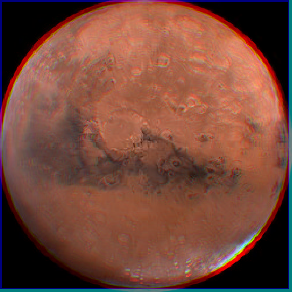
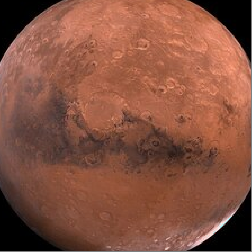
Se cambia la metodologia de aberracion v1

diff --git a/modules/telescope.py b/modules/telescope.py
@@ -9,7 +9,7 @@ def telescope_system(m, l, url):
     if m == '0':
         obj = Image.open(url, "r")
     elif m == '1':
-        obj = Image.open("img/nuevaImagen.png", "r")
+        obj = Image.open("img/mars.jpg", "r")
         
     width, height = obj.size
 
@@ -24,35 +24,55 @@ def telescope_system(m, l, url):
     
     res = dio/height
     
-    if l == 'd':
-        f1 = np.array(df.loc['objective','mainSystem']['f'])
-        f2 = np.array(df.loc['eyespace','mainSystem']['f'])
-        
-    elif l == 'g':
-        nA = np.array(df.loc['objective','mainSystem']['n'])
-        rA = np.array(df.loc['objective','mainSystem']['R'])
-        dA = np.array(df.loc['objective','mainSystem']['d'])
-        nB = np.array(df.loc['eyespace','mainSystem']['n'])
-        rB = np.array(df.loc['eyespace','mainSystem']['R'])
-        dB = np.array(df.loc['eyespace','mainSystem']['d'])
-        
-        f1 = 1/((nA-1)*((1/rA)-(1/(-rA))+(((nA-1)*dA)/(nA*rA*(-rA)))))
-        f2 = 1/((nB-1)*((1/(-rB))-(1/(rB))+(((nB-1)*dB)/(nB*rB*(-rB)))))
-    
-    si1 = (f1*so)/(so-f1)
-    so2 = -(si1-(f1+f2))
-    si2 = (f2*so2)/(so2-f2)
-    
-    print("si2: ", si2)
-    
     if m == '0':
+        if l == 'd':
+            f1 = np.array(df.loc['objective','mainSystem']['f'])
+            f2 = np.array(df.loc['eyespace','mainSystem']['f'])
+        
+        elif l == 'g':
+            nA = np.array(df.loc['objective','mainSystem']['n'])
+            rA = np.array(df.loc['objective','mainSystem']['R'])
+            dA = np.array(df.loc['objective','mainSystem']['d'])
+            nB = np.array(df.loc['eyespace','mainSystem']['n'])
+            rB = np.array(df.loc['eyespace','mainSystem']['R'])
+            dB = np.array(df.loc['eyespace','mainSystem']['d'])
+            
+            f1 = 1/((nA-1)*((1/rA)-(1/(-rA))+(((nA-1)*dA)/(nA*rA*(-rA)))))
+            f2 = 1/((nB-1)*((1/(-rB))-(1/(rB))+(((nB-1)*dB)/(nB*rB*(-rB)))))
+        
+        si1 = (f1*so)/(so-f1)
+        so2 = -(si1-(f1+f2))
+        si2 = (f2*so2)/(so2-f2)
+    
+        print("si2: ", si2)
+        
         si = si2
         width_output = int(width)+40
         height_output = int(height)+40
 
     elif m == '1':
+        so = [so, so, so]
+        f1 = np.array(df.loc['convergentLens','objetiveTriplet']['f'])
+        f2 = np.array(df.loc['divergentMeniscusLens','objetiveTriplet']['f'])
+        f3 = np.array(df.loc['concavePlaneLens','objetiveTriplet']['f'])
+        
+        fo = 1/(1/f1 + 1/f2 + 1/f3)
+        
+        f1 = np.array(df.loc['divergentLens','eyespaceTriplet']['f'])
+        f2 = np.array(df.loc['convergentMeniscusLens','eyespaceTriplet']['f'])
+        f3 = np.array(df.loc['convexPlaneLens','eyespaceTriplet']['f'])
+        
+        fe = 1/(1/f1 + 1/f2 + 1/f3)
+        
+        si1 = (fo*so)/(so-fo)
+        so2 = -(si1-(fo+fe))
+        si2 = (fe*so2)/(so2-fe)
     
-        d1 = df.loc['convergentLens','triplet']['d']
+        print("si2: ", si2)
+        
+        si = si2
+        
+        """d1 = df.loc['convergentLens','triplet']['d']
         d2 = df.loc['divergentLens','triplet']['d']
         d3 = df.loc['planarConvergentLens','triplet']['d']
 
@@ -82,7 +102,7 @@ def telescope_system(m, l, url):
 
         si = (f*so)/(so-f)
         print("so: ", so)
-        print("si: ", si)
+        print("si: ", si)"""
         
         width_output = int(width)
         height_output = int(height)

diff --git a/modules/tracer.py b/modules/tracer.py
@@ -43,6 +43,27 @@ def compute_lens_matrix(l):
         A = np.array([[[AR[0][0], AG[0][0], AB[0][0]], [AR[0][1], AG[0][1], AB[0][1]]] , [[AR[1][0], AG[1][0], AB[1][0]], [AR[1][1], AG[1][1], AB[1][1]]]])
     return A
 
+def correction(l):
+    df = pd.read_json("data/lenses.json")
+    
+    f1 = np.array(df.loc['convergentLens','objetiveTriplet']['f'])
+    f2 = np.array(df.loc['divergentMeniscusLens','objetiveTriplet']['f'])
+    f3 = np.array(df.loc['concavePlaneLens','objetiveTriplet']['f'])
+    
+    fo = 1/(1/f1 + 1/f2 + 1/f3)
+    
+    f1 = np.array(df.loc['divergentLens','eyespaceTriplet']['f'])
+    f2 = np.array(df.loc['convergentMeniscusLens','eyespaceTriplet']['f'])
+    f3 = np.array(df.loc['convexPlaneLens','eyespaceTriplet']['f'])
+    
+    fe = 1/(1/f1 + 1/f2 + 1/f3)
+    
+    d = fo + fe
+    A = np.array([[-fe/fo, d], [[0, 0, 0], -fo/fe]])
+    
+    return A
+    
+
 def triplet(l):
     df = pd.read_json("data/lenses.json")
     
@@ -95,7 +116,7 @@ def ray_tracing(width, height, rayo, so, n1, obj, res, pixels, width_output, hei
         P1 = np.array([[[1, 1, 1], [so/n1, so/n1, so/n1]],[[0, 0, 0], [1, 1, 1]]])
         
     elif(m == '1'):
-        T = triplet(l)
+        T = correction(l)
         P2 = np.array([[[1, 1, 1], [si[0]/n1, si[1]/n1, si[2]/n1]],[[0, 0, 0], [1, 1, 1]]])
         P1 = np.array([[[1, 1, 1], [so[0]/n1, so[1]/n1, so[2]/n1]],[[0, 0, 0], [1, 1, 1]]])
         
@@ -151,8 +172,8 @@ def ray_tracing(width, height, rayo, so, n1, obj, res, pixels, width_output, hei
                 y_prime = y*(126/1.6)*Mt
                 
             elif(m == '1'):
-                x_prime = x*Mt
-                y_prime = y*Mt
+                x_prime = x*(126/1.6)*Mt
+                y_prime = y*(126/1.6)*Mt
             
             pos_x_prime = [int(x_prime[0] + width_output/2), int(x_prime[1] + width_output/2), int(x_prime[2] + width_output/2)]
             pos_y_prime = [int(y_prime[0] + height_output/2), int(y_prime[1] + height_output/2), int(y_prime[2] + height_output/2)]

diff --git a/modules/tripletCalculation.py b/modules/tripletCalculation.py
@@ -1,0 +1,102 @@
+import numpy as np
+
+# --------- Convergente ----------------------------------
+
+n = [1.49514, 1.49700, 1.50123]
+
+print('Convergente: ')
+
+#se calcula el radio de la linea d (amarillo)
+f = 39190/8161
+R = (2*n[1]-2)*f
+
+Rc = R
+
+print('Radio convergente: ', R)
+
+print('Focal amarillo convergente: ', f)
+
+fAc = f
+
+#focal convergente para la linea c (rojo)
+f = 1/((n[0] - 1)*(1/R - 1/(-R)))
+
+print('Focal rojo convergente: ', f)
+
+fRc = f
+
+#focal convergente para la linea f (azul)
+f = 1/((n[2] - 1)*(1/R - 1/(-R)))
+
+print('Focal azul convergente: ', f)
+
+fBc = f
+
+# --------- Divergente ----------------------------------
+
+print('Divergente: ')
+
+n = [1.69222, 1.69892, 1.71536]
+
+#se calcula el radio de la linea d (amarillo)
+f = -3919/604
+R = (2-2*n[1])*f
+
+R = Rc
+
+x = 1 - R/(2*f)
+
+print('indice nd: ', x)
+
+print('Radio divergente: ', R)
+
+print('Focal amarillo divergente: ', f)
+
+fAd = f
+
+#focal divergente para la linea c (rojo)
+f = 1/((n[0] - 1)*(1/(-R) - 1/(R)))
+
+print('Focal rojo divergente: ', f)
+
+fRd = f
+
+#focal convergente para la linea f (azul)
+f = 1/((n[2] - 1)*(1/(-R) - 1/(R)))
+
+print('Focal azul divergente: ', f)
+
+fBd = f
+
+fcs = np.array([4.85959, fAc, 4.645])
+fds = np.array([fRd, fAd, fBd])
+
+f = 1/(1/fcs + 2/fds)
+
+print('Focal triplete: ',f)
+
+
+print('Divergente 2:')
+
+
+
+"""#calculo de los radios convergente
+R = (2*n-2)*f
+
+#calculo de los radios divergente
+R = (2-2*n)*f
+
+
+R = [0, 0, 0]
+#focal convergente
+f = 1/((n - 1)*(1/R - 1/(-R)))
+
+#focal divergente
+f = 1/((n - 1)*(1/(-R) - 1/(R)))
+
+
+#indice de refracción convergente
+x = 1 + R/(2*f)
+
+#indice de refracción divergente
+x = 1 - R/(2*f)"""
